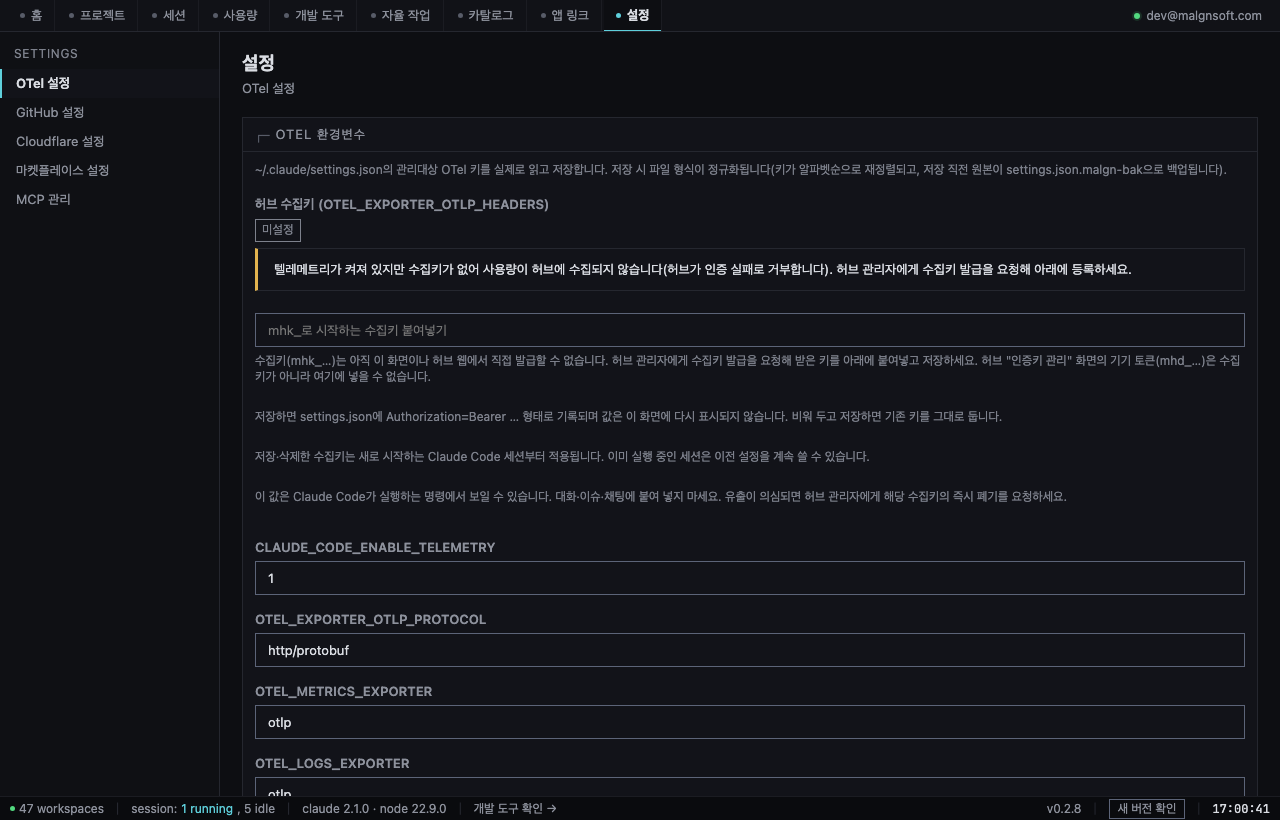
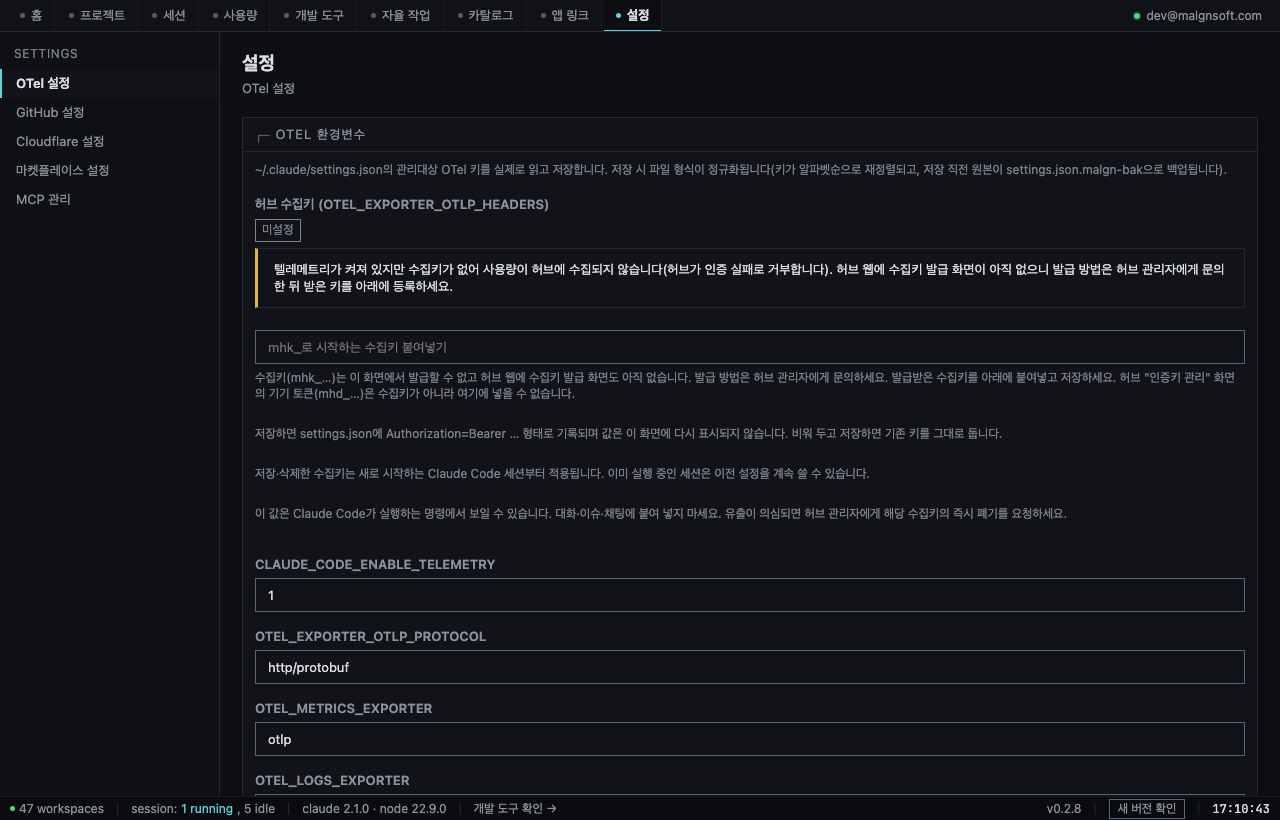
fix(otel): 수집키 발급 안내를 "관리자에게 발급 요청"에서 "허브 웹에 발급 화면 없음·방법 문의"로 바로잡는다
개인 수집키는 본인 허브 로그인 세션으로만 발급되고 관리자가 대신 발급하면 사용량이
직원이 아닌 워크스테이션 앞으로 집계된다. 폐기 안내(관리자에게 요청)와 mhd_ 기기 토큰
불가 안내는 유지한다. 하네스 문구 단언과 캡처를 맞춘다. (R12 2차 리뷰 RV-006)

diff --git a/src/views/settings.ts b/src/views/settings.ts
@@ -100,12 +100,15 @@ const INGEST_KEY_ENV = 'OTEL_EXPORTER_OTLP_HEADERS';
 // 허브 수집키 안내 문구 — 한 곳에서 관리한다.
 // 현재 사실: 허브에는 수집키(mhk_) 발급·폐기 셀프서비스 화면이 아직 없다. 허브 "인증키 관리"
 // (/keys)는 MCP 기기 토큰(mhd_)만 다루고, 거기서 만든 토큰은 수집키가 아니라 여기에 넣을 수 없다.
-// 그래서 발급·폐기는 관리자에게 요청하게 안내하고 /keys로 보내는 버튼은 두지 않는다.
+// 개인 수집키는 본인 허브 로그인 세션으로만 발급되는 API라 관리자가 대신 발급하지 못한다(관리자가 발급하는
+// 공용 워크스테이션 키는 사용량이 직원이 아닌 워크스테이션 앞으로 집계된다). 그래서 발급은 "방법 문의"로만
+// 안내하고 "발급 요청"이라 쓰지 않는다. 폐기는 관리자도 할 수 있어 "폐기 요청"을 유지한다.
+// /keys로 보내는 버튼은 두지 않는다.
 // 허브에 수집키 UI가 생기면: 이 객체의 `issue`·`revoke` 문구를 바꾸고, 발급 화면 URL을
 // Rust `IngestKeyStatus`에 다시 실어(otel_ingest_key.rs) 버튼을 되살린다.
 const INGEST_KEY_COPY = {
   issue:
-    '수집키(mhk_…)는 아직 이 화면이나 허브 웹에서 직접 발급할 수 없습니다. 허브 관리자에게 수집키 발급을 요청해 받은 키를 아래에 붙여넣고 저장하세요. 허브 "인증키 관리" 화면의 기기 토큰(mhd_…)은 수집키가 아니라 여기에 넣을 수 없습니다.',
+    '수집키(mhk_…)는 이 화면에서 발급할 수 없고 허브 웹에 수집키 발급 화면도 아직 없습니다. 발급 방법은 허브 관리자에게 문의하세요. 발급받은 수집키를 아래에 붙여넣고 저장하세요. 허브 "인증키 관리" 화면의 기기 토큰(mhd_…)은 수집키가 아니라 여기에 넣을 수 없습니다.',
   storage:
     '저장하면 settings.json에 Authorization=Bearer … 형태로 기록되며 값은 이 화면에 다시 표시되지 않습니다. 비워 두고 저장하면 기존 키를 그대로 둡니다.',
   scope: '저장·삭제한 수집키는 새로 시작하는 Claude Code 세션부터 적용됩니다. 이미 실행 중인 세션은 이전 설정을 계속 쓸 수 있습니다.',
@@ -116,7 +119,7 @@ const INGEST_KEY_COPY = {
   savedToast: 'OTel 설정을 저장했습니다. 새로 시작하는 Claude Code 세션부터 적용됩니다.',
   clearedToast: '허브 수집키를 이 PC에서 삭제했습니다. 새로 시작하는 Claude Code 세션부터 적용되며, 허브의 키는 폐기되지 않았습니다.',
   warnUnsetHub:
-    '텔레메트리가 켜져 있지만 수집키가 없어 사용량이 허브에 수집되지 않습니다(허브가 인증 실패로 거부합니다). 허브 관리자에게 수집키 발급을 요청해 아래에 등록하세요.',
+    '텔레메트리가 켜져 있지만 수집키가 없어 사용량이 허브에 수집되지 않습니다(허브가 인증 실패로 거부합니다). 허브 웹에 수집키 발급 화면이 아직 없으니 발급 방법은 허브 관리자에게 문의한 뒤 받은 키를 아래에 등록하세요.',
   warnUnrecognizedHub: '설정된 Authorization 값이 허브 수집키 형식이 아니라 허브가 거부할 수 있습니다. 새 수집키를 입력하고 저장하면 교체됩니다.',
   warnInsecure:
     '수집키가 설정돼 있는데 OTLP 엔드포인트가 http://(암호화 없음)입니다. 키가 평문으로 전송될 수 있으니 https:// 주소인지 확인하세요.',
